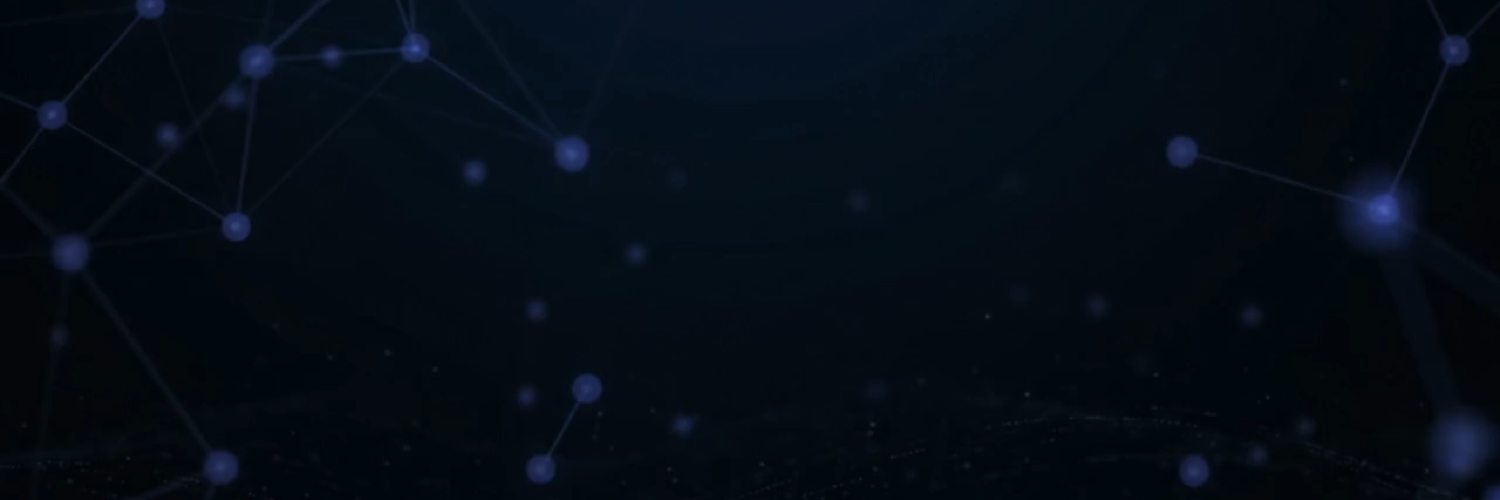
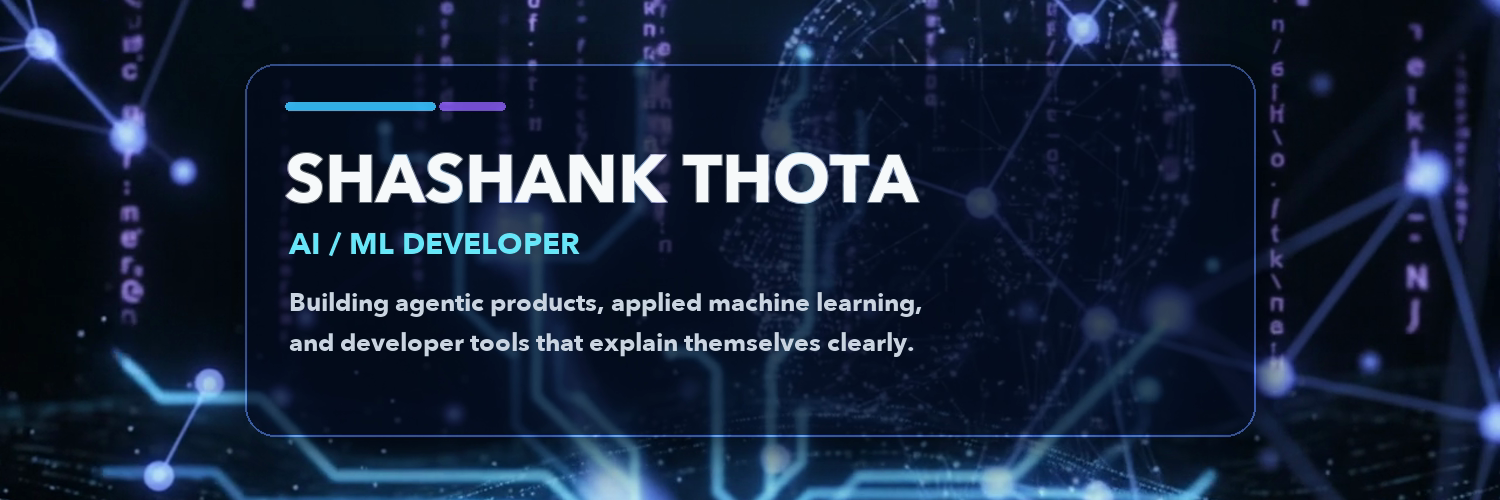
Version 8 — restore animated video hero

diff --git a/README.md b/README.md
@@ -1,5 +1,8 @@
 <p align="center">
-  <img src="assets/banner.png" alt="Dark neural-network banner for Shashank Thota" width="100%">
+  <picture>
+    <source media="(prefers-reduced-motion: reduce)" srcset="assets/banner.png">
+    <img src="assets/banner.gif" alt="Shashank Thota — AI/ML Developer building agentic products, applied machine learning, and developer tools" width="100%">
+  </picture>
 </p>
 
 <p align="center">
